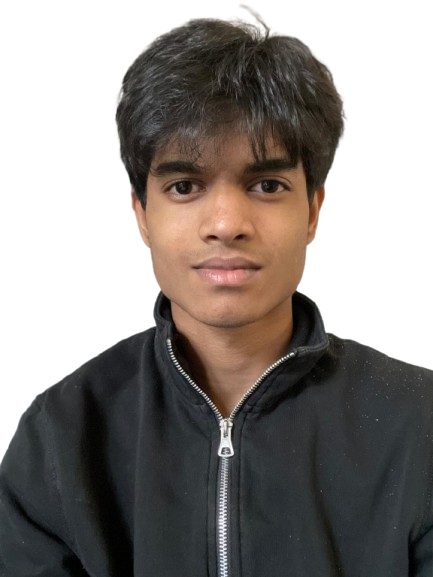
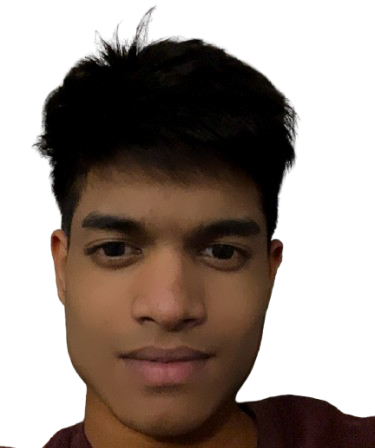
fix image issues

diff --git a/style.css b/style.css
@@ -496,13 +496,10 @@ button {
   filter: drop-shadow(0 18px 35px rgba(0, 0, 0, 0.18));
 }
 
-/* Purple glow behind the transparent PNG */
-
 .image-bg {
   position: absolute;
   z-index: 0;
   width: 100%;
-  aspect-ratio: 1;
   border-radius: 10%;
   overflow: clip;
   transition: all 0.2s ease-in-out;

diff --git a/fr.html b/fr.html
@@ -64,10 +64,10 @@
 				</h1>
 				<div class="hero-image">
 					<div class="image-bg">
-						<img src="IMG_2154.png">
+						<img src="me.png">
 					</div>
 					<div class="img-mobile">
-						<img src="IMG_2154.png">
+						<img src="me.png">
 					</div>
 				</div>
 			</section>

diff --git a/index.html b/index.html
@@ -64,10 +64,10 @@
 				</h1>
 				<div class="hero-image">
 					<div class="image-bg">
-						<img src="IMG_2154.png">
+						<img src="me.png">
 					</div>
 					<div class="img-mobile">
-						<img src="IMG_2154.png">
+						<img src="me.png">
 					</div>
 				</div>
 			</section>
